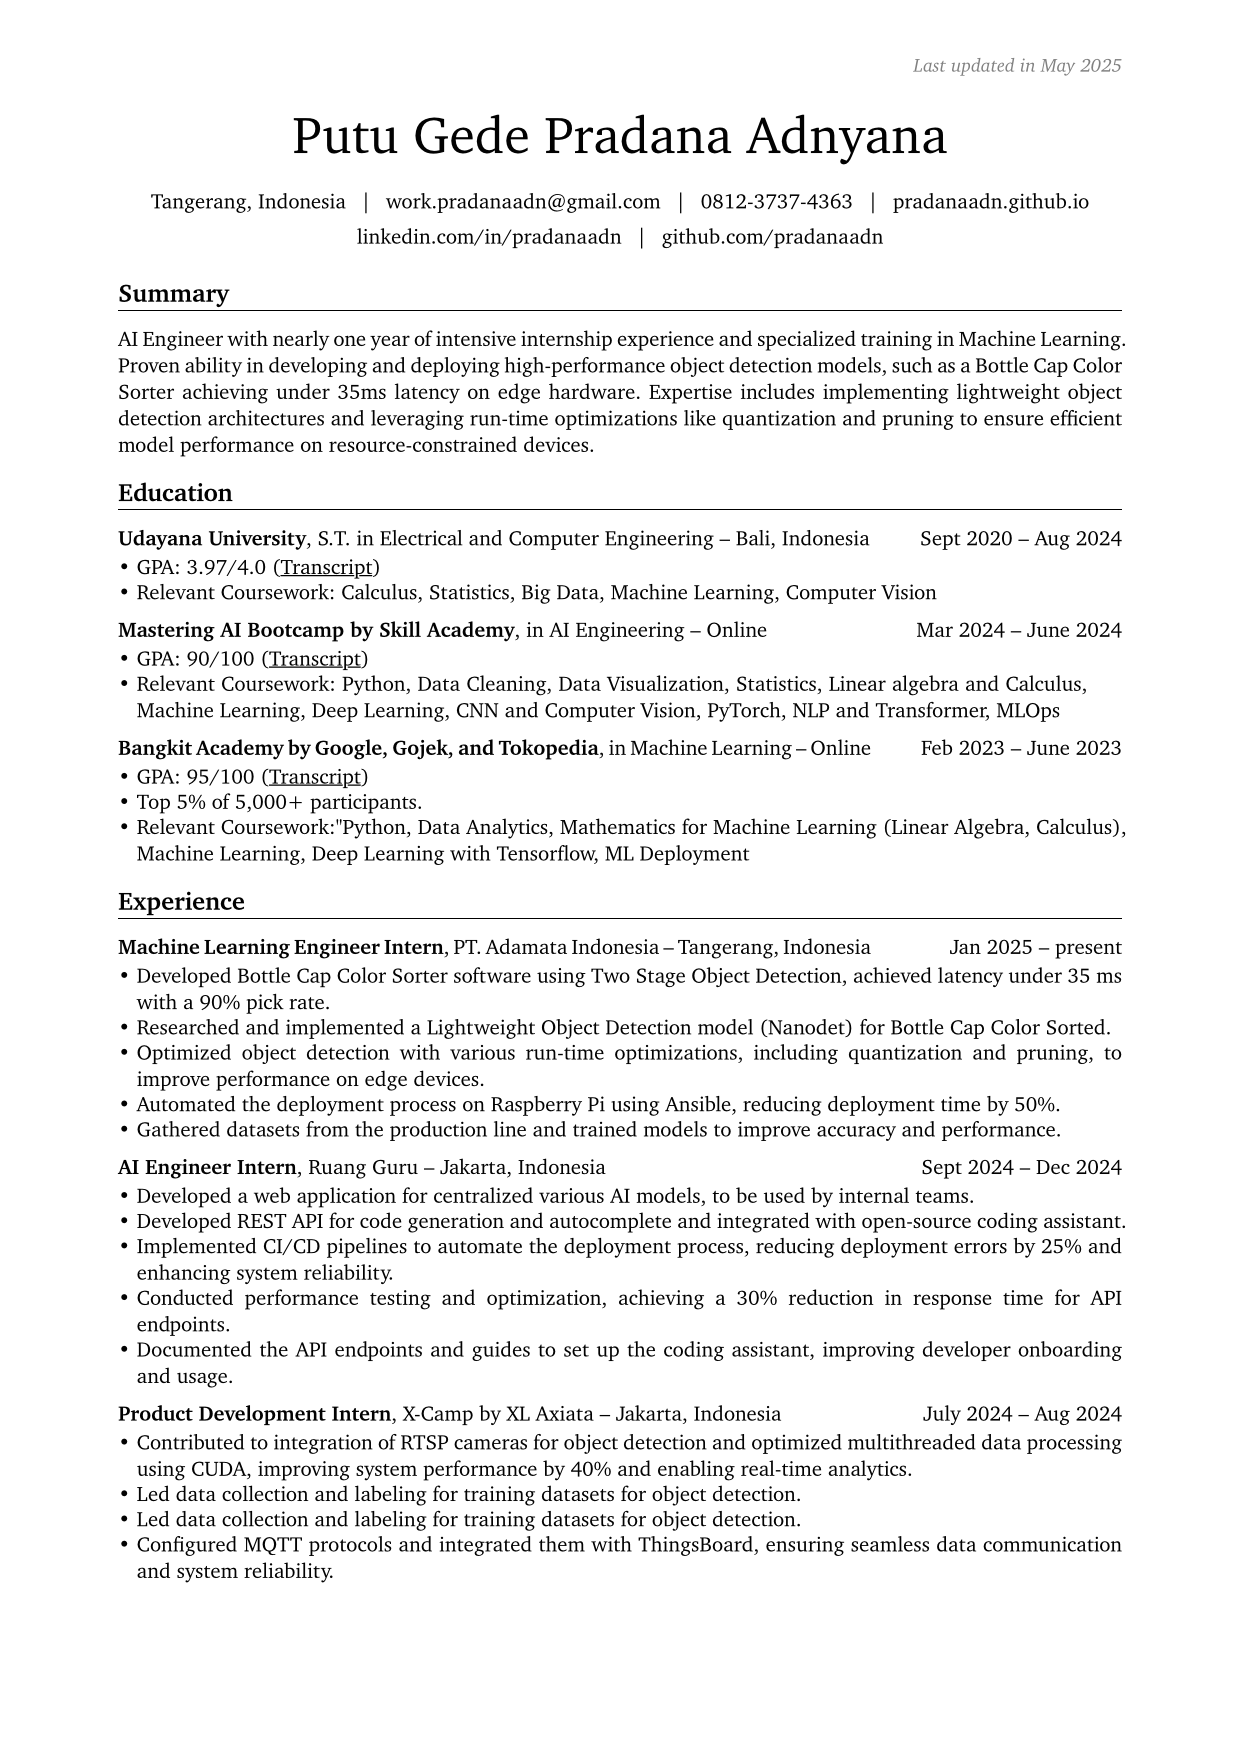
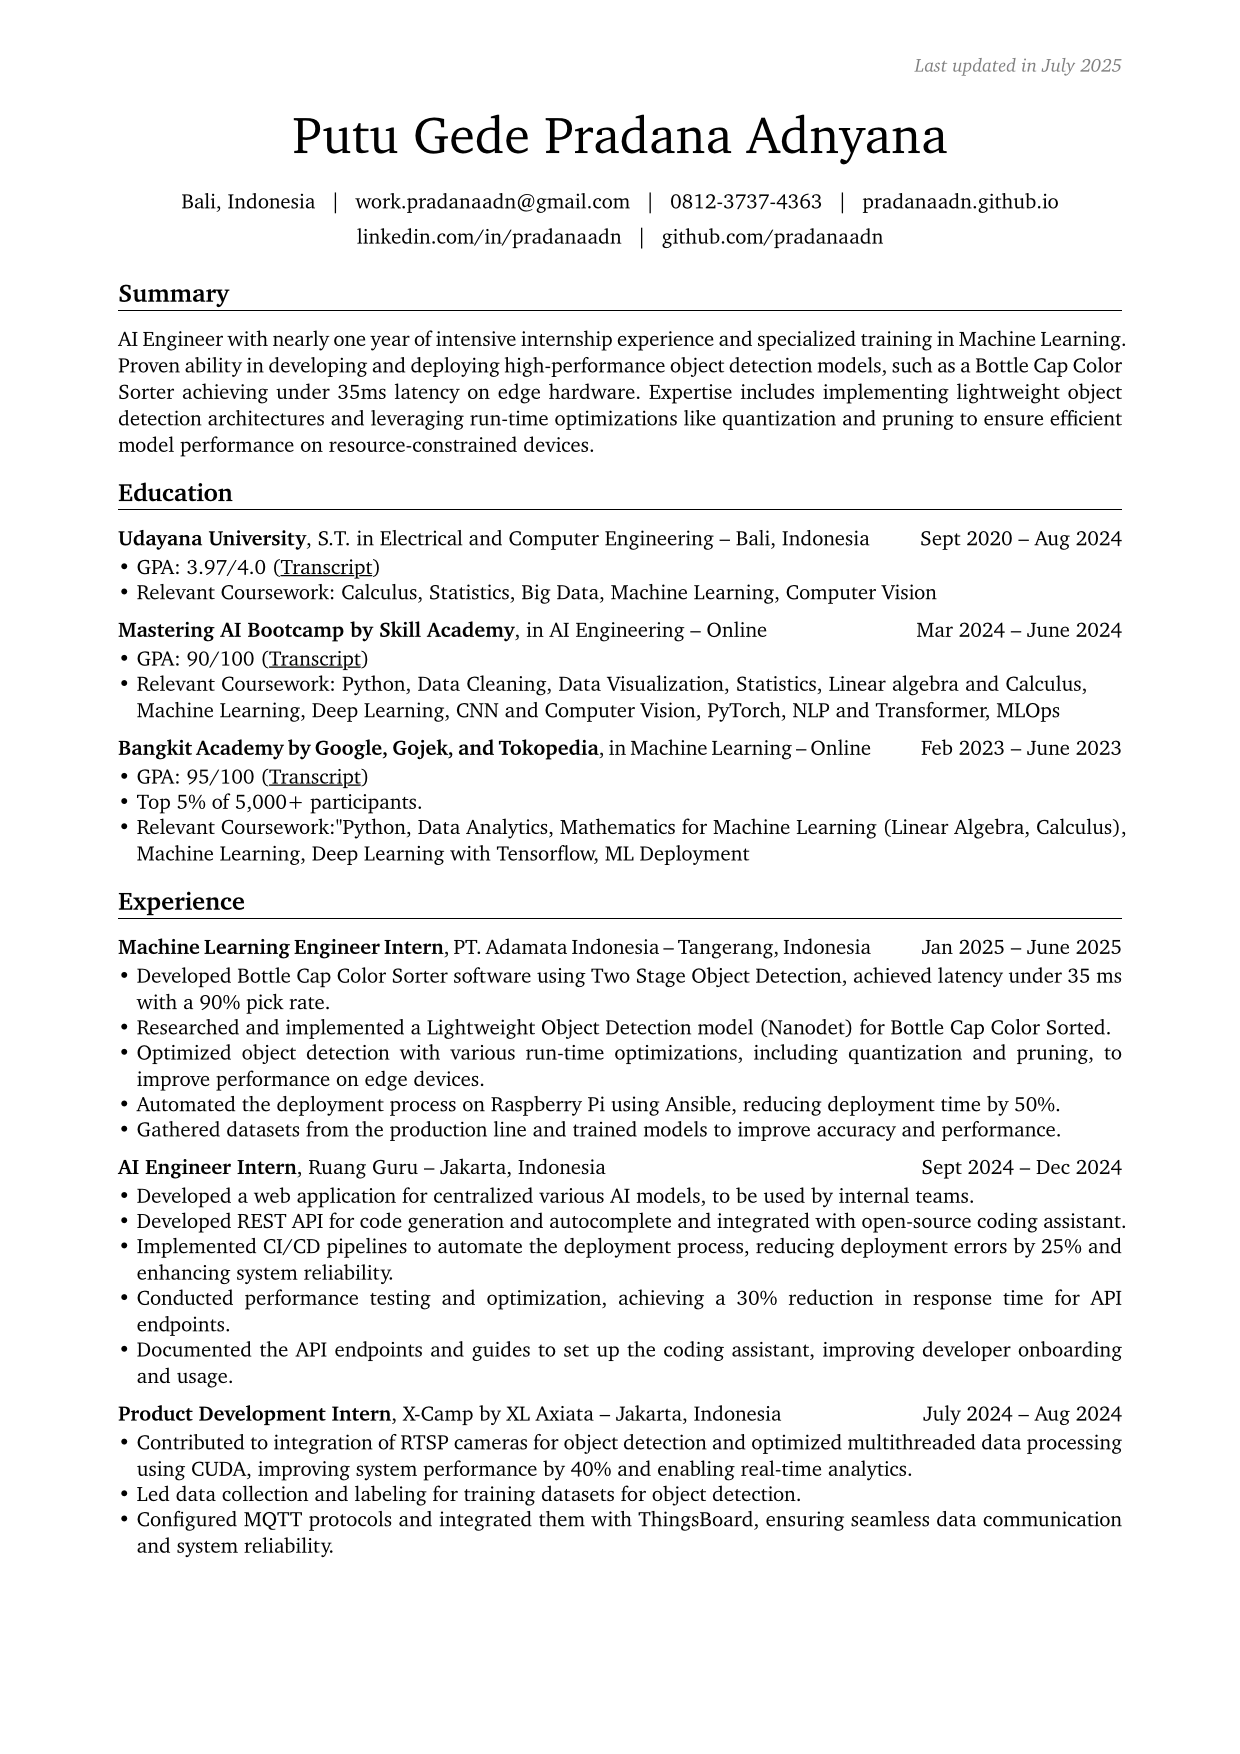
feat: update location and internship dates in CV

diff --git a/rendercv_output/Putu_Gede_Pradana_Adnyana_CV.html b/rendercv_output/Putu_Gede_Pradana_Adnyana_CV.html
@@ -43,7 +43,7 @@
         <ul>
         <li>Phone: +62 812 3737 4363</li>
         <li>Email: <a href="mailto:work.pradanaadn@gmail.com">work.pradanaadn@gmail.com</a></li>
-        <li>Location: Tangerang, Indonesia</li>
+        <li>Location: Bali, Indonesia</li>
         <li>Website: <a href="https://pradanaadn.github.io/">pradanaadn.github.io</a></li>
         <li>LinkedIn: <a href="https://linkedin.com/in/pradanaadn">pradanaadn</a></li>
         <li>GitHub: <a href="https://github.com/pradanaadn">pradanaadn</a></li>
@@ -76,7 +76,7 @@
         <h1>Experience</h1>
         <h2>PT. Adamata Indonesia, Machine Learning Engineer Intern</h2>
         <ul>
-        <li>Jan 2025 – present</li>
+        <li>Jan 2025 – June 2025</li>
         <li>Tangerang, Indonesia</li>
         <li>Developed Bottle Cap Color Sorter software using Two Stage Object Detection, achieved latency under 35 ms with a 90% pick rate.</li>
         <li>Researched and implemented a Lightweight Object Detection model (Nanodet) for Bottle Cap Color Sorted.</li>
@@ -99,7 +99,6 @@
         <li>July 2024 – Aug 2024</li>
         <li>Jakarta, Indonesia</li>
         <li>Contributed to integration of RTSP cameras for object detection and optimized multithreaded data processing using CUDA, improving system performance by 40% and enabling real-time analytics.</li>
-        <li>Led data collection and labeling for training datasets for object detection.</li>
         <li>Led data collection and labeling for training datasets for object detection.</li>
         <li>Configured MQTT protocols and integrated them with ThingsBoard, ensuring seamless data communication and system reliability.</li>
         </ul>

diff --git a/rendercv_output/Putu_Gede_Pradana_Adnyana_CV.md b/rendercv_output/Putu_Gede_Pradana_Adnyana_CV.md
@@ -2,7 +2,7 @@
 
 - Phone: +62 812 3737 4363
 - Email: [work.pradanaadn@gmail.com](mailto:work.pradanaadn@gmail.com)
-- Location: Tangerang, Indonesia
+- Location: Bali, Indonesia
 - Website: [pradanaadn.github.io](https://pradanaadn.github.io/)
 - LinkedIn: [pradanaadn](https://linkedin.com/in/pradanaadn)
 - GitHub: [pradanaadn](https://github.com/pradanaadn)
@@ -40,7 +40,7 @@ AI Engineer with nearly one year of intensive internship experience and speciali
 
 ## PT. Adamata Indonesia, Machine Learning Engineer Intern
 
-- Jan 2025 – present
+- Jan 2025 – June 2025
 - Tangerang, Indonesia
 - Developed Bottle Cap Color Sorter software using Two Stage Object Detection, achieved latency under 35 ms with a 90% pick rate.
 - Researched and implemented a Lightweight Object Detection model (Nanodet) for Bottle Cap Color Sorted.
@@ -63,7 +63,6 @@ AI Engineer with nearly one year of intensive internship experience and speciali
 - July 2024 – Aug 2024
 - Jakarta, Indonesia
 - Contributed to integration of RTSP cameras for object detection and optimized multithreaded data processing using CUDA, improving system performance by 40% and enabling real-time analytics.
-- Led data collection and labeling for training datasets for object detection.
 - Led data collection and labeling for training datasets for object detection.
 - Configured MQTT protocols and integrated them with ThingsBoard, ensuring seamless data communication and system reliability.
 
